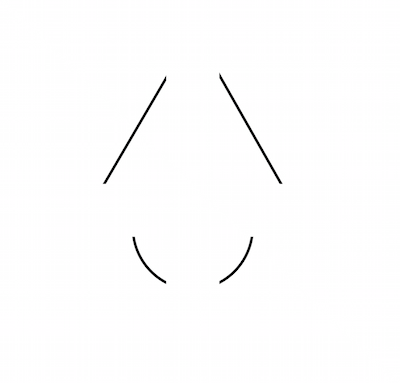
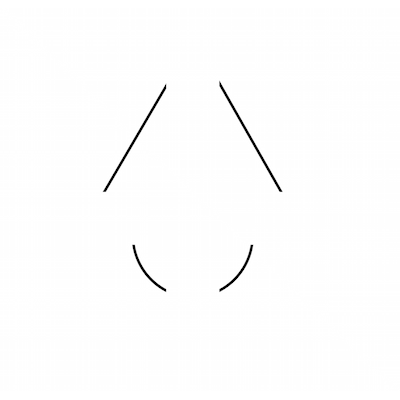
Adjusted the size of background images and how they are fit in the sketchpad.

diff --git a/public/jspsych/plugin-sketchpad.js b/public/jspsych/plugin-sketchpad.js
@@ -426,16 +426,13 @@ var jsPsychSketchpad = (function (jspsych) {
                   this.background_image = new Image();
                   this.background_image.src = this.params.background_image;
                   this.background_image.onload = () => {
-                    // Define the padding value (leave some space between background image and canvas border)
-                    const padding = 100; 
-
-                    // Ensure the background image is drawn in a way that it scales and centers properly
+                    // Make sure the background image fills the whole canvas
                     this.ctx.drawImage(
                         this.background_image,
-                        padding, // x coordinate
-                        padding, // y coordinate
-                        this.sketchpad.width - 2 * padding, // width
-                        this.sketchpad.height - 2 * padding // height
+                        0,
+                        0,
+                        this.sketchpad.width,
+                        this.sketchpad.height
                     );
                     resolve(true);
                   };
@@ -499,15 +496,14 @@ var jsPsychSketchpad = (function (jspsych) {
       render_drawing() {
         this.ctx.clearRect(0, 0, this.sketchpad.width, this.sketchpad.height);
         this.add_background_color();
-        // Ensure the padding value is the same as in add_background_image
-        const padding = 100; 
+         // Make sure the background image fills the whole canvas
         if (this.background_image) {
             this.ctx.drawImage(
                 this.background_image,
-                padding, // x coordinate
-                padding, // y coordinate
-                this.params.canvas_width - 2 * padding, // width
-                this.params.canvas_height - 2 * padding // height
+                0,
+                0,
+                this.params.canvas_width,
+                this.params.canvas_height
             );
         }
         for (const stroke of this.strokes) {

diff --git a/reshape_imcomplete_shape_stimuli.py b/reshape_imcomplete_shape_stimuli.py
@@ -1,0 +1,46 @@
+from PIL import Image
+import os
+
+def reshape_image(path, target_size = (400, 400)):
+    """
+    Resize + center-pad an image to exactly the target size (default: 400x400) 
+    while preserving aspect ratio. Directly overwrite the current image 
+    if its size does not match the target size. 
+    """
+
+    # Load and convert to grayscale (if not already)
+    img = Image.open(path).convert("L")
+    orig_w, orig_h = img.size
+
+    assert (orig_w, orig_h) != target_size, "Image is already the target size."
+
+    # Scale image to fit within 400x400
+    scale = min(target_size[0] / orig_w, target_size[1] / orig_h)
+    new_w, new_h = int(orig_w * scale), int(orig_h * scale)
+    resized = img.resize((new_w, new_h), resample=Image.LANCZOS)
+
+    # Create a white canvas
+    canvas = Image.new("L", target_size, color=255)
+
+    # Compute top-left corner to paste resized image
+    x_offset = (target_size[0] - new_w) // 2
+    y_offset = (target_size[1] - new_h) // 2
+
+    canvas.paste(resized, (x_offset, y_offset))
+    canvas.save(path)
+
+
+def main():
+    # Define the directory containing the images
+    stimuli_dir = "public/images"
+
+    # Reshape all incomplete shape stimuli
+    for filename in os.listdir(stimuli_dir):
+        if "Incomplete_Shape" in filename:
+            image_path = os.path.join(stimuli_dir, filename)
+            reshape_image(image_path)
+            print(f"Resized {filename}.")
+
+
+if __name__ == "__main__":
+    main()
